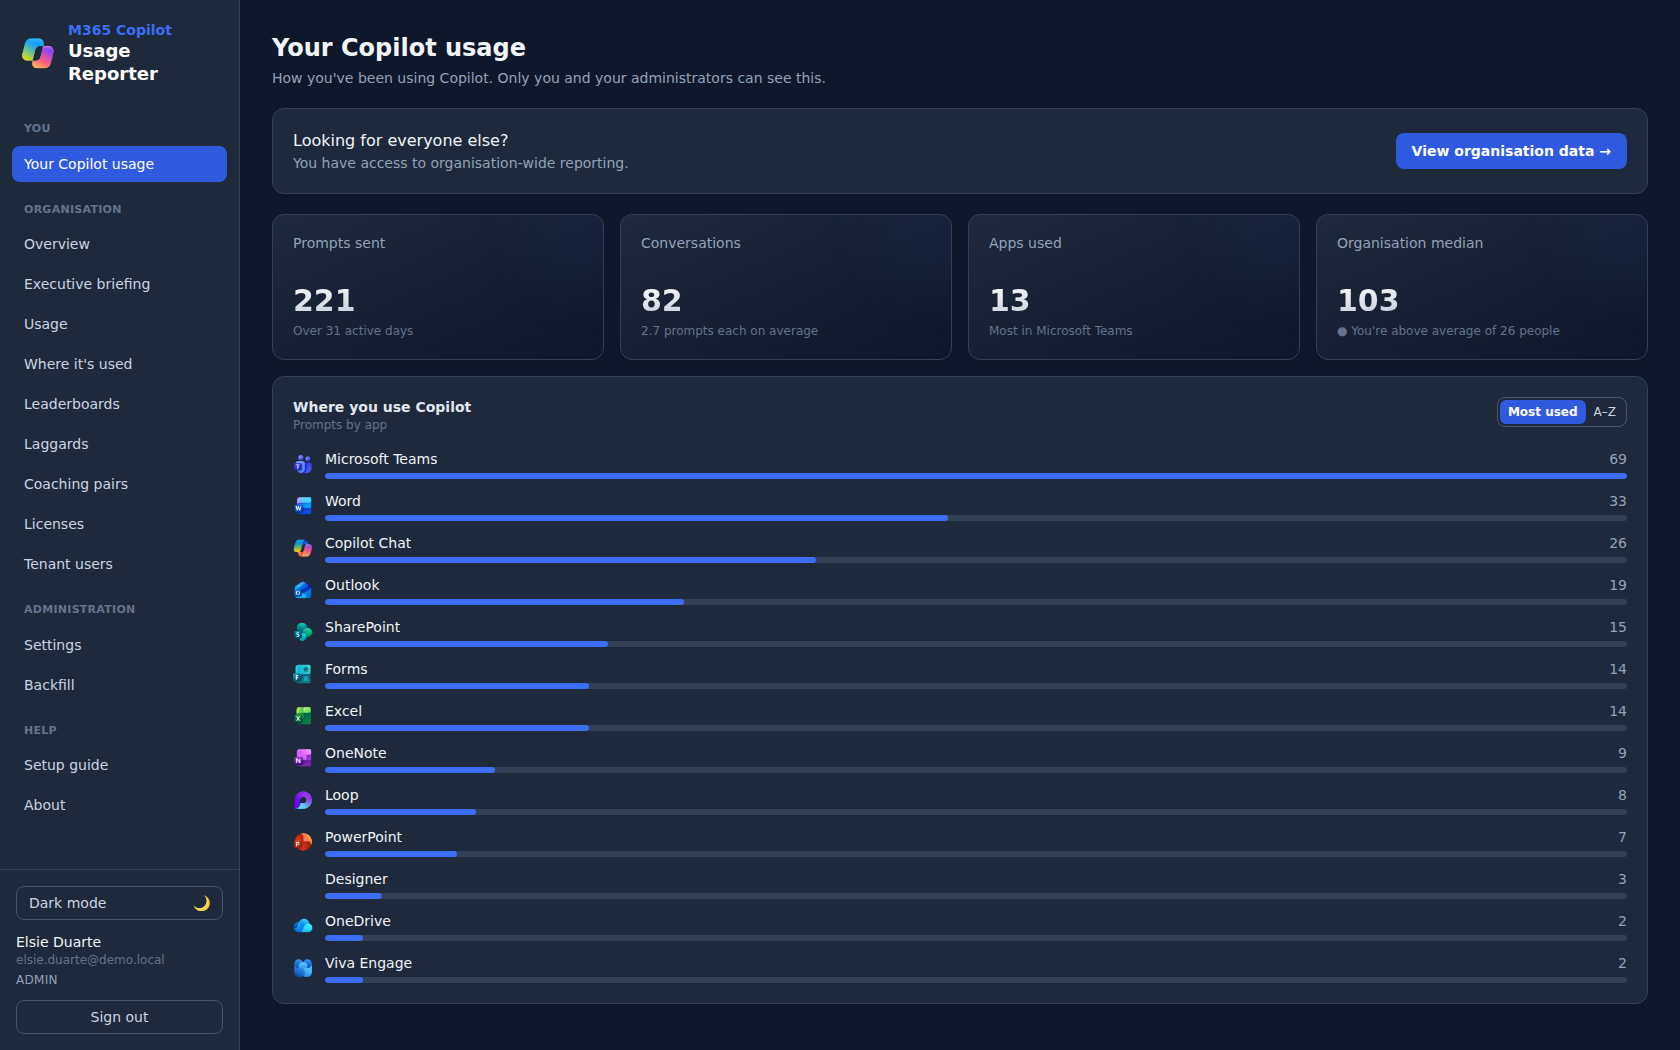
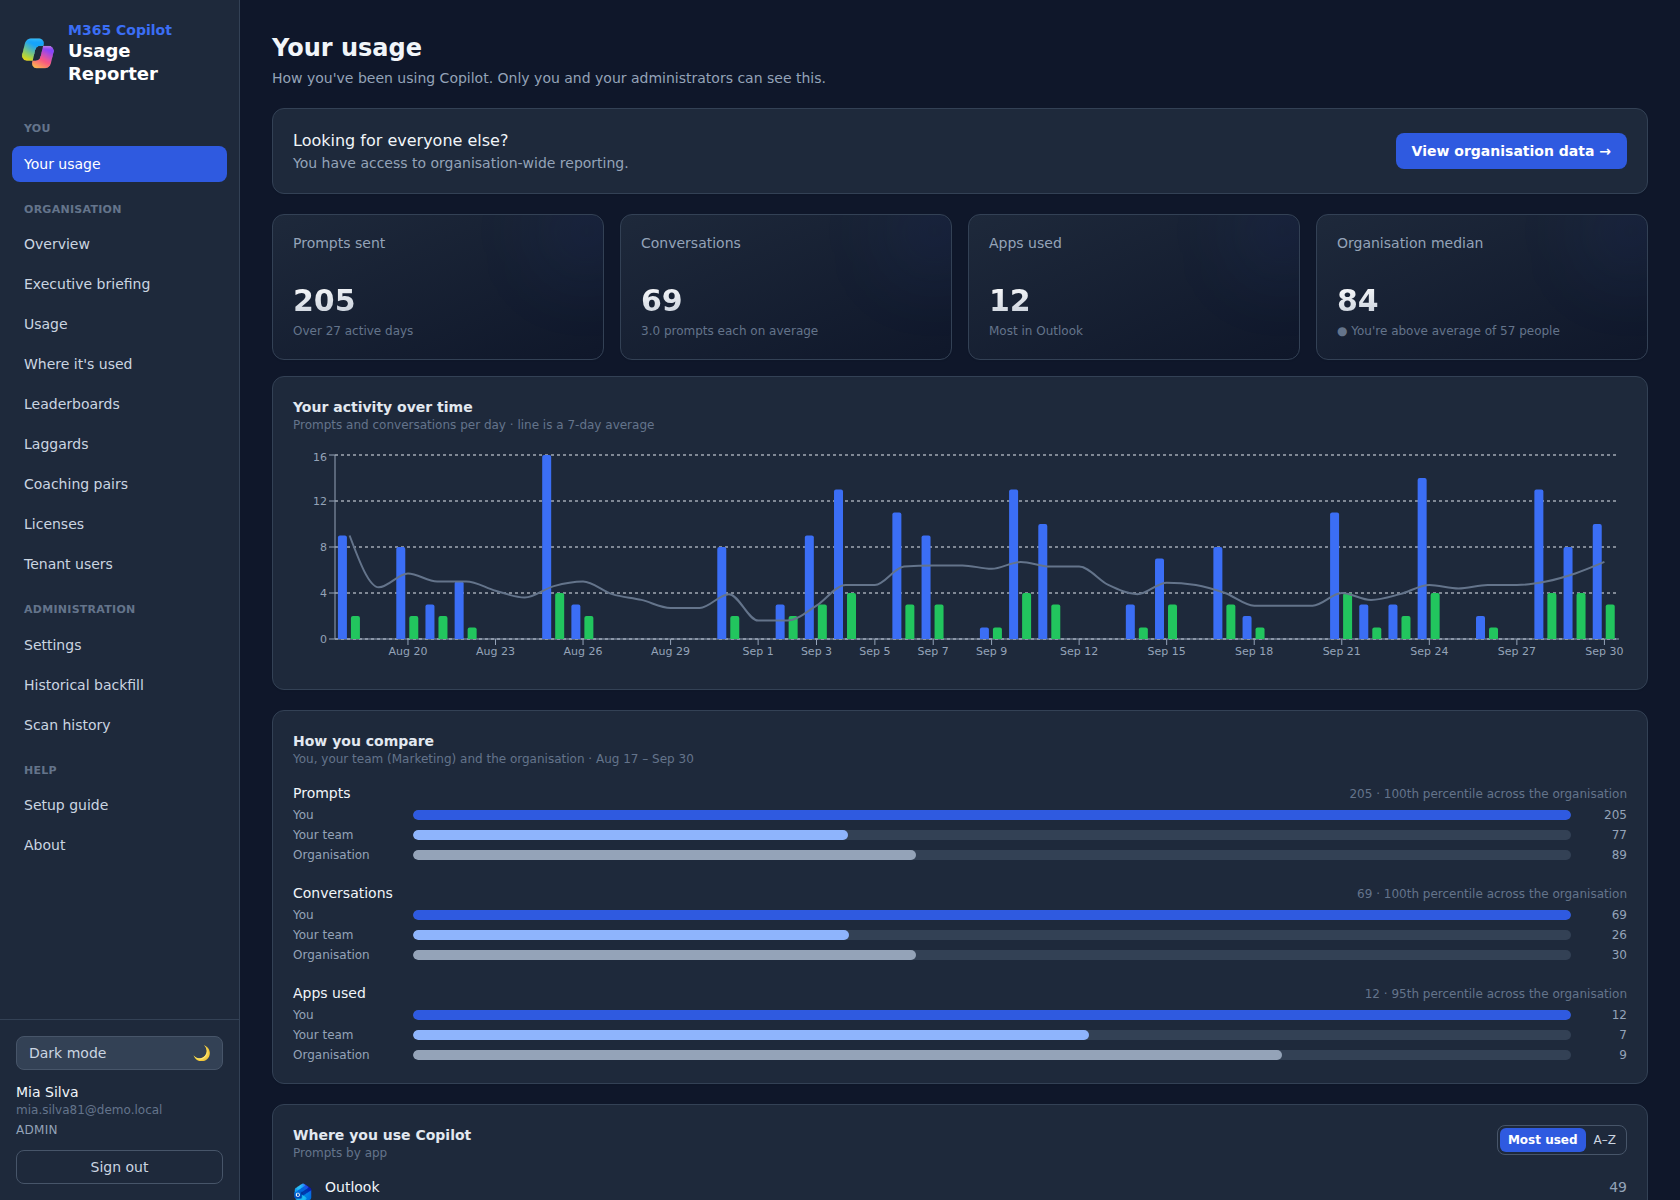
Refresh the screenshots for the pages this pass added and rebuilt
Your usage (renamed from 'Your Copilot usage') gains the daily activity
timeline and the you/team/organisation comparison; Scan history is new and gets
its own section, since the run log had no entry in the README at all.

Captured from throwaway local stacks on HA-IC9 running the published images —
byte-identical digests to what is deployed, checked rather than assumed — with
seeded demo data and no tenant credentials configured anywhere, so no Graph
call was possible and no real tenant or deployment was touched. 1680x1200,
light and dark, per docs/screenshots/README.md.

Worth recording, because it nearly shipped the wrong pictures: the host had a
cached :latest from earlier in the day, and a plain compose up reused it rather
than pulling. Three of the four rigs came up on the previous build, which is
only visible in details like a percentile reading "38th percentile" where the
shipped code shows a band. Caught by diffing each rig's image digest against
the running production container; the shots here are from a forced re-pull.

diff --git a/README.md b/README.md
@@ -47,12 +47,26 @@ matched by hand. Every column filters.
 
 ![Tenant users](docs/screenshots/tenant-users.png)
 
-### Your Copilot usage
+### Your usage
 
 What each person sees of their own activity: how much they have used Copilot, how that compares
 with the organisation median, and which apps they use it in.
 
-![Your Copilot usage](docs/screenshots/personal.png)
+![Your usage](docs/screenshots/personal.png)
+
+### Scan history
+
+Every collection this report has run, newest first, under **Administration** —
+what kind it was, when it started, how long it took, what it wrote, and whether
+it succeeded, with a failed run showing its error. Status is a shape plus a word
+(● Succeeded · ◐ In progress · ○ Failed), never colour alone, and a kind the app
+does not recognise is shown as itself rather than filtered out: a run that
+happened and is not listed is worse than one labelled awkwardly.
+
+This is what `job_runs` has recorded since the first release and nothing ever
+displayed.
+
+![Scan history](docs/screenshots/scan-history.png)
 
 ### Settings
 
@@ -67,7 +81,8 @@ Every page supports a light and dark theme.
 
 ![Overview in dark mode](docs/screenshots/overview-dark.png)
 
-![Your Copilot usage in dark mode](docs/screenshots/personal-dark.png)
+![Your usage in dark mode](docs/screenshots/personal-dark.png)
+![Scan history in dark mode](docs/screenshots/scan-history-dark.png)
 
 > These are desktop dashboards. They are built for a laptop or monitor, not a phone.
 
